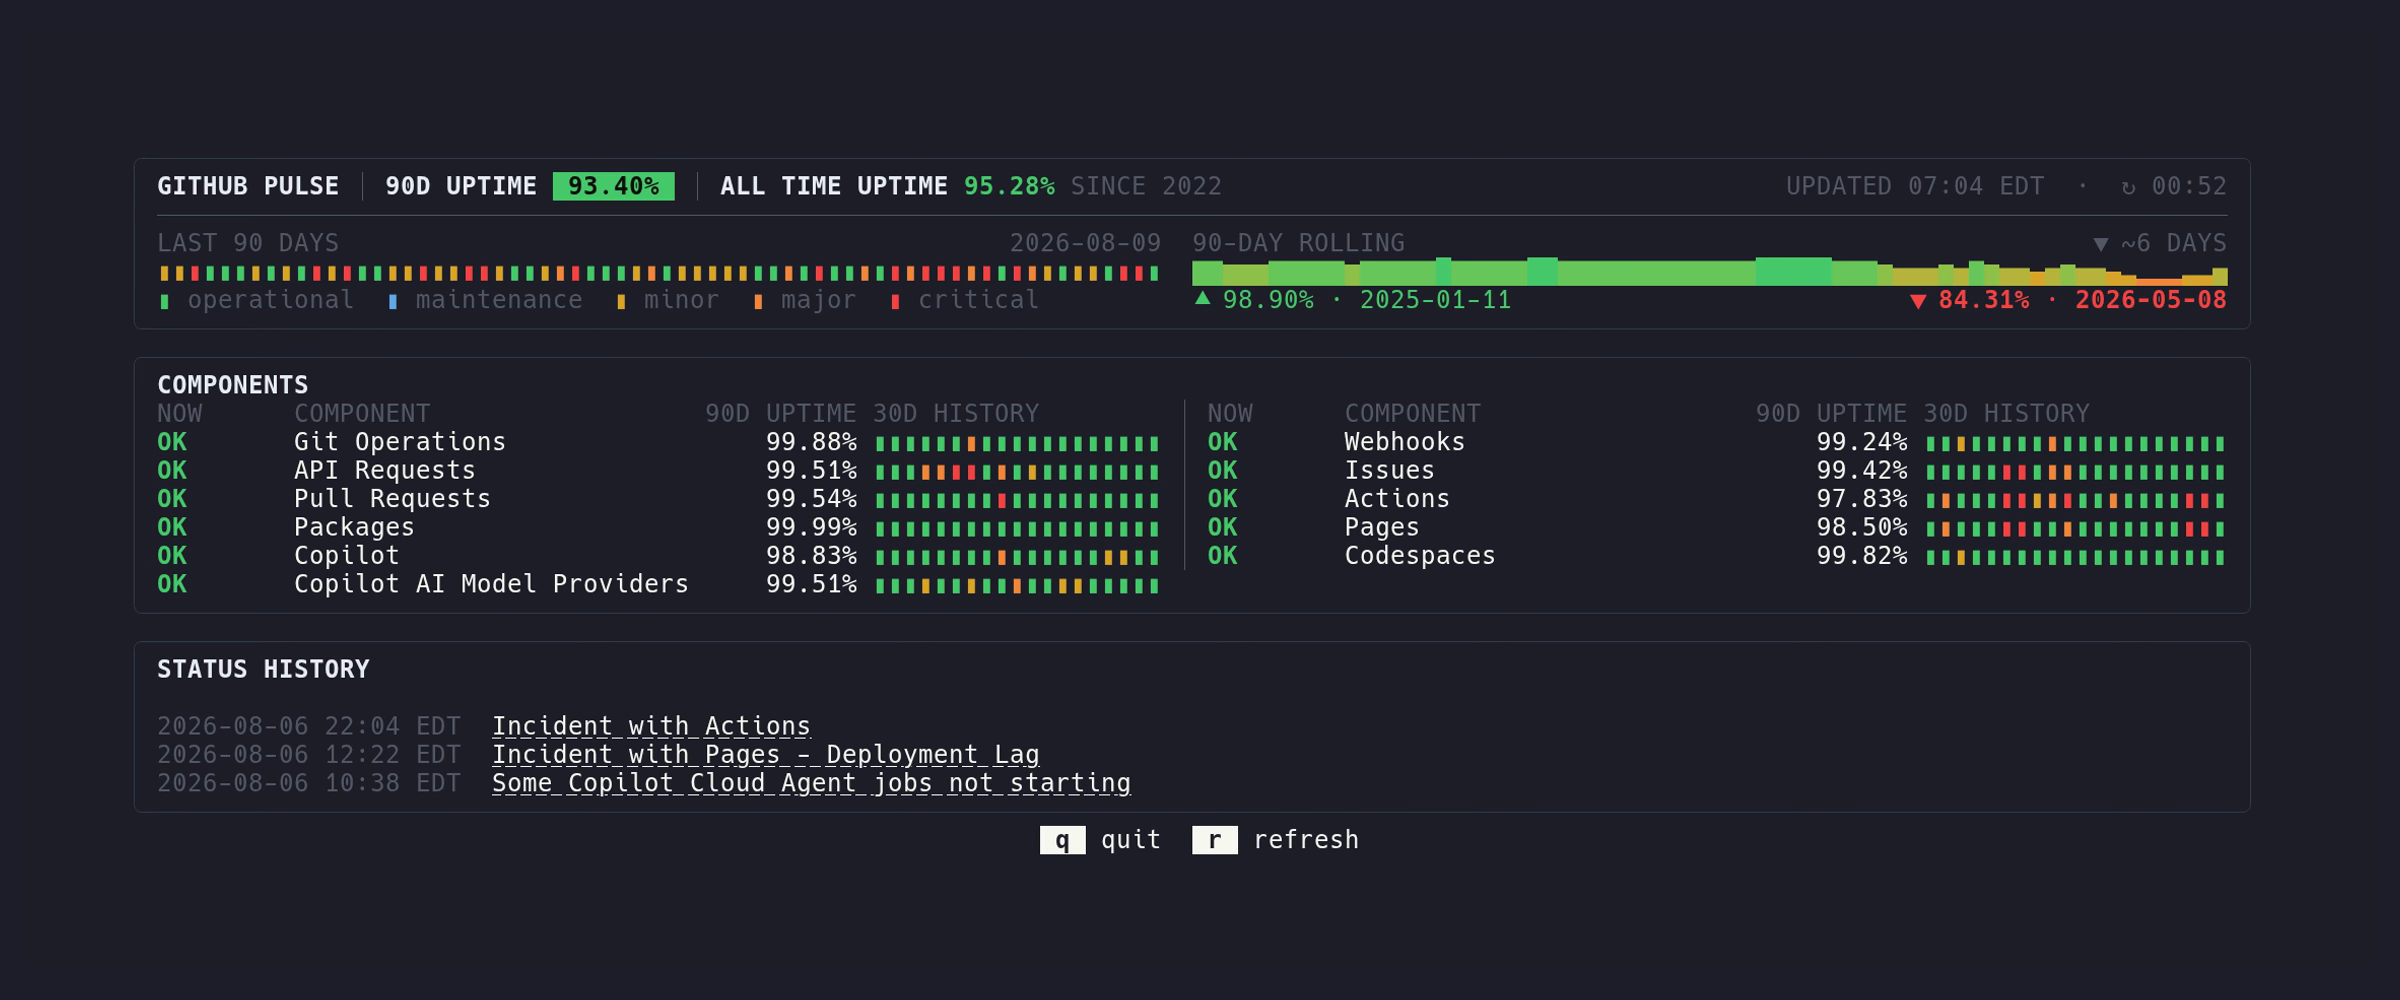
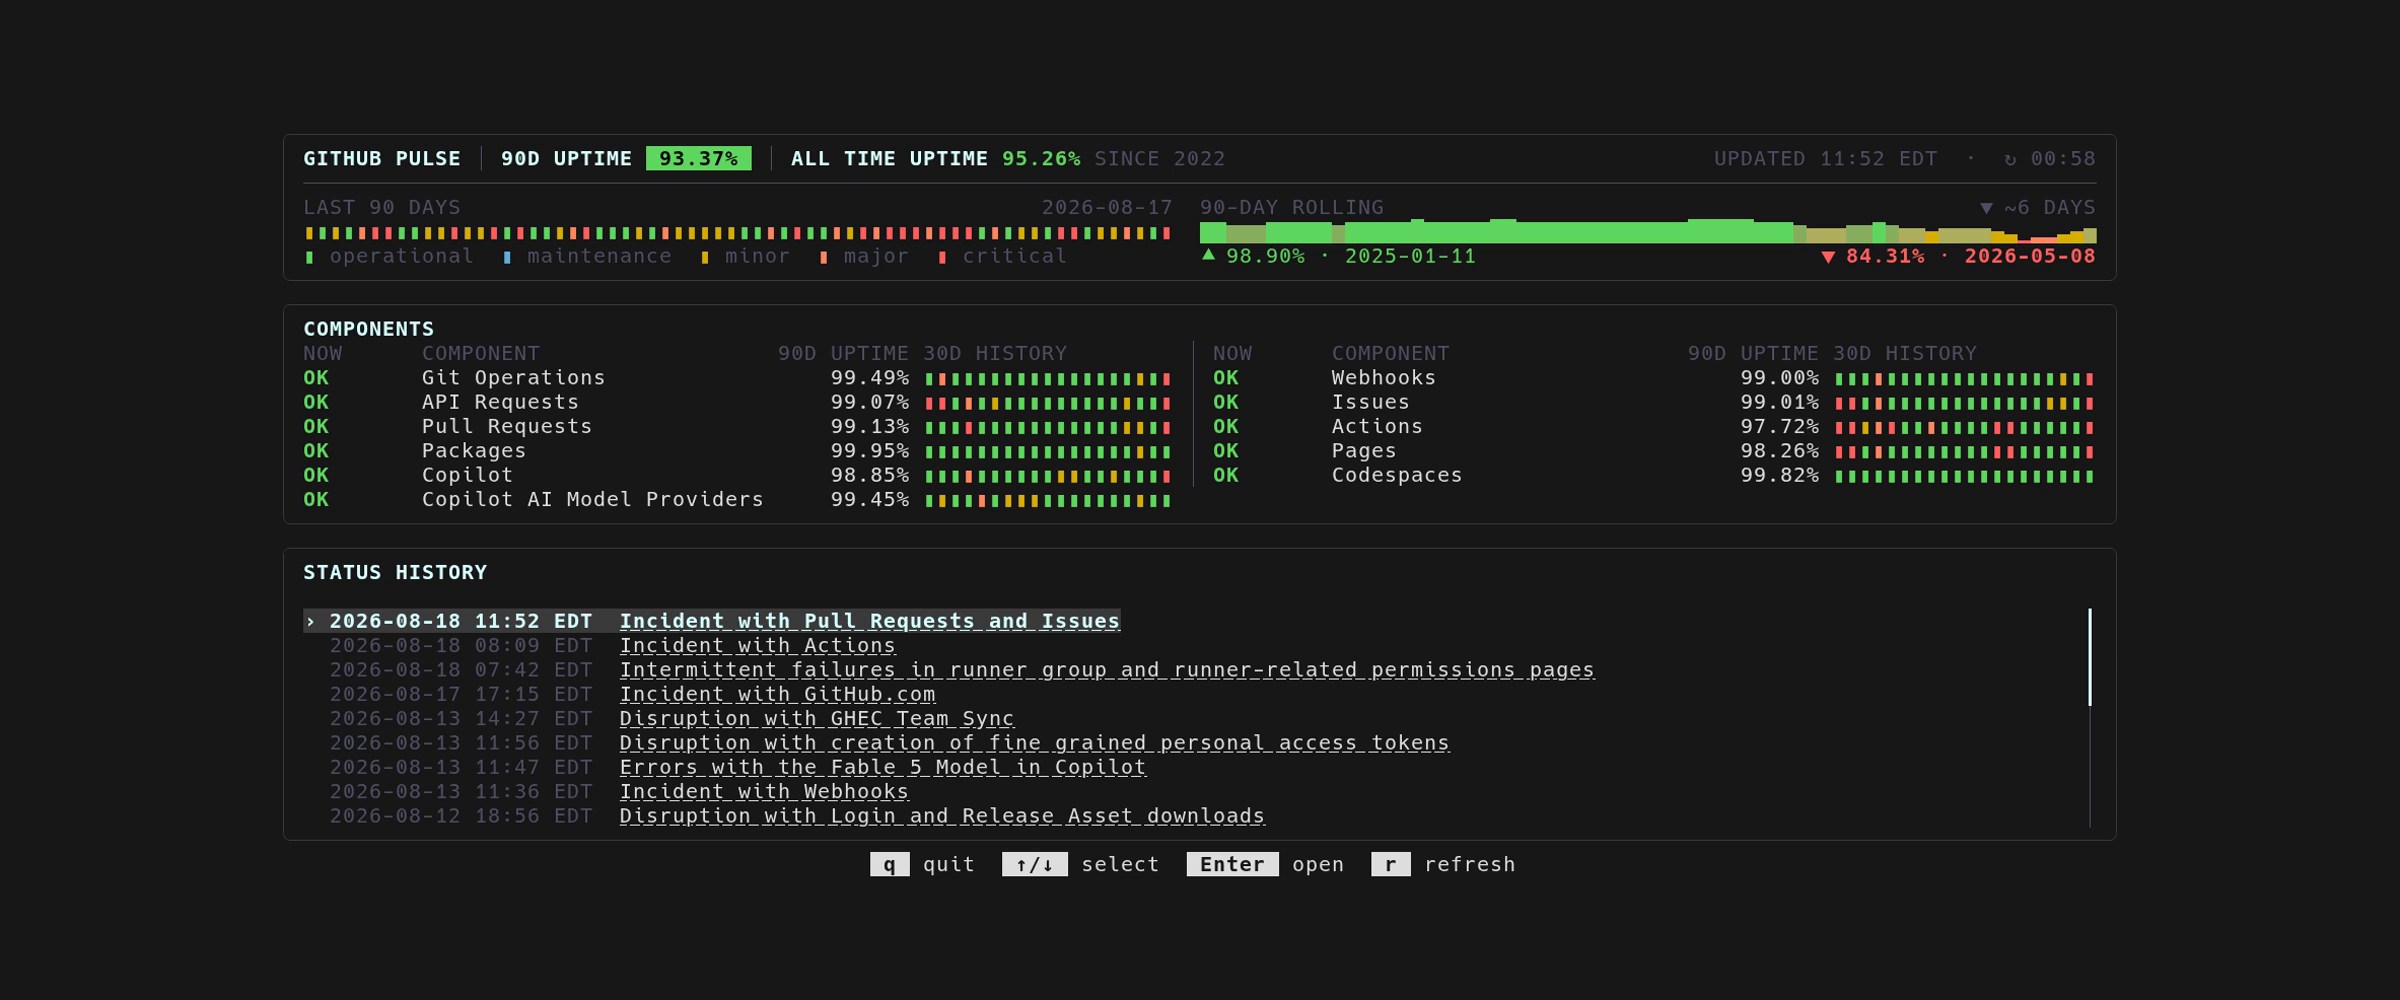
docs: refresh dashboard screenshot (#12)
The existing README image predates the selectable status history added in v1.1.0. Refresh the live dashboard capture so readers can see the expanded history list, current selection, and scrollbar before installing the extension.

diff --git a/README.md b/README.md
@@ -13,7 +13,7 @@ SPDX-License-Identifier: Apache-2.0
 # GitHub Pulse
 <!-- markdownlint-enable MD033 MD041 -->
 
-![GitHub Pulse dashboard](images/gh-pulse.png)
+![GitHub Pulse dashboard with selectable status history](images/gh-pulse.png)
 
 GitHub Pulse is a fast, terminal-native view of GitHub service health. It shows
 GitHub's official current status separately from uptime reconstructed from
@@ -27,7 +27,7 @@ scripts and agents.
 - Current GitHub platform and component health from GitHub Status.
 - A compact 90-day daily-state strip and per-component 30-day history.
 - Reconstructed 90-day uptime, equivalent downtime, and rolling history.
-- Recent official status updates with clickable incident links.
+- Selectable official status history with scrollable full incident details.
 - Responsive color, monochrome, narrow-terminal, and scrollable layouts.
 - One-shot JSON with deterministic ordering and no terminal formatting.
 
